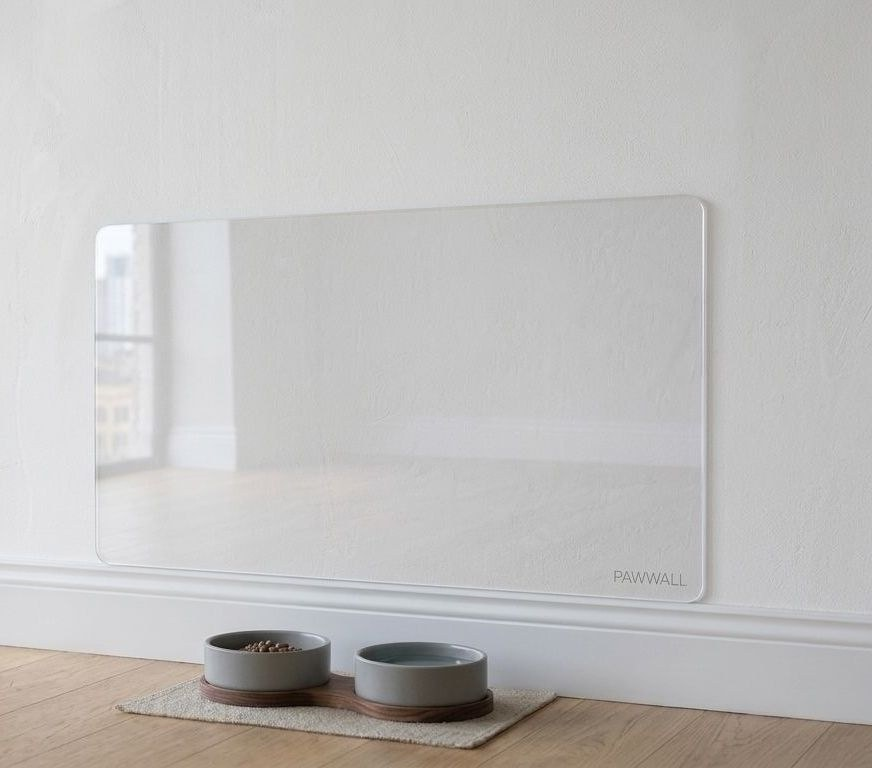
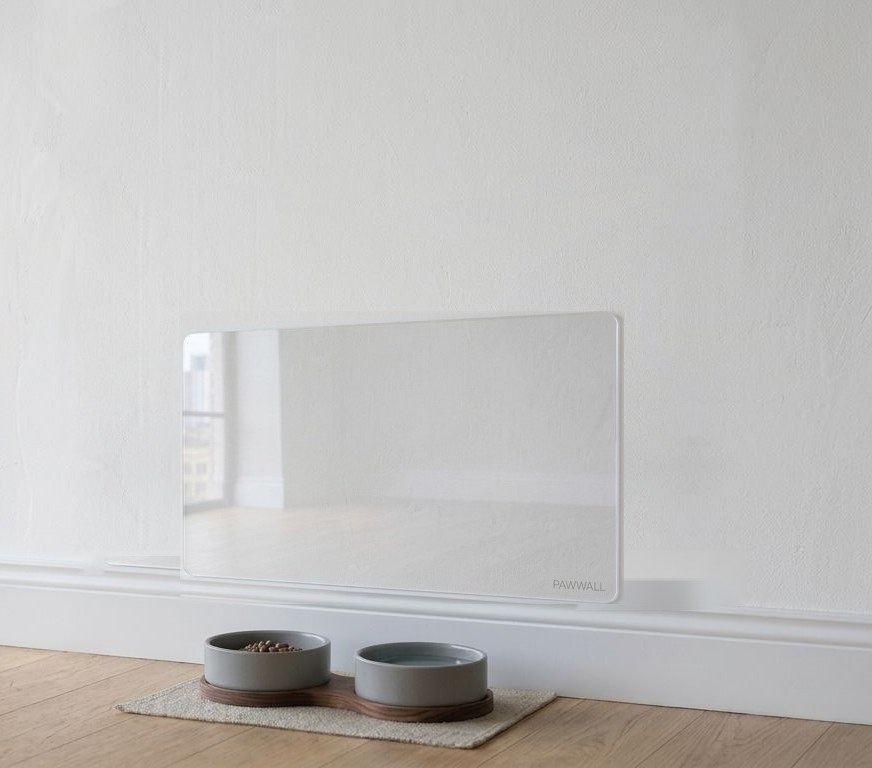
PawWall: CatWall con la foto original como talla L y talla M reducida
Claude-Session: https://claude.ai/code/session_013GfqyHzpRR2JBrbXYAACXR

diff --git a/pawwall/app.js b/pawwall/app.js
@@ -10,7 +10,7 @@ var LINEAS={DogWall:"perros",CatWall:"gatos"};
 /* acabados disponibles en cada línea: CatWall solo en Transparente Básico */
 var ACAB={DogWall:["tr","an","br"],CatWall:["tr"]};
 /* fotos del configurador por línea, acabado y talla: [x, y, ancho, alto del panel en %, ancho y alto de la foto] */
-var FOTO={"dog-tr-M":[39,36.5,36,38.06,1200,896],"dog-an-M":[39,36.54,36,38.1,1200,895],"dog-br-M":[39,36.5,36,38.06,1200,896],"dog-tr-L":[36.67,21.32,50.42,53.24,1200,896],"dog-an-L":[36.67,21.34,50.42,53.3,1200,895],"dog-br-L":[36.67,21.32,50.42,53.24,1200,896],"cat-tr-M":[10.44,25.26,71.33,53.39,872,768],"cat-tr-L":[5.03,6.32,88.34,73.28,962,768]};
+var FOTO={"dog-tr-M":[39,36.5,36,38.06,1200,896],"dog-an-M":[39,36.54,36,38.1,1200,895],"dog-br-M":[39,36.5,36,38.06,1200,896],"dog-tr-L":[36.67,21.32,50.42,53.24,1200,896],"dog-an-L":[36.67,21.34,50.42,53.3,1200,895],"dog-br-L":[36.67,21.32,50.42,53.24,1200,896],"cat-tr-M":[20.64,40.49,50.92,38.15,872,768],"cat-tr-L":[10.44,25.26,71.33,53.39,872,768]};
 /* tienda de PawWall en Velority: productos, precios y pedidos (los gestiona Ángel desde su portal › Catálogo / Pedidos) */
 var TIENDA_CLAVE="799fe49875d3c656",API="https://ufwuvbjrgvphbggkfkuh.supabase.co/functions/v1/productos";
 var CAT={},AJUSTES=null,CAT_OK=false,alCargar=[];
@@ -42,7 +42,7 @@ function pintarCarro(){
   C.forEach(function(x){x.p=PR(x.col,x.g,x.t)+(x.nombre?GR(x.g):0)});
   var n=C.reduce(function(a,x){return a+x.q},0),t=C.reduce(function(a,x){return a+x.p*x.q},0);
   $("#n-carro").textContent=n;$("#t-carro").textContent=eur(t);
-  $("#lista").innerHTML=C.length?C.map(function(x,i){var g=GAMAS[x.g];return '<div class="linea"><img src="img/conf-'+(x.col=="CatWall"?"cat":"dog")+'-'+x.g+'-'+x.t+'.webp?t2" alt=""><div><b>'+esc(x.col+" "+g.n)+'</b><small>Talla '+x.t+' · '+TALLAS[x.t]+(x.nombre?'<br>Nombre grabado: «'+esc(x.nombre)+'»':'')+'</small><div class="qt"><button data-i="'+i+'" data-d="-1" aria-label="Quitar uno">−</button>'+x.q+'<button data-i="'+i+'" data-d="1" aria-label="Añadir uno">+</button><button class="q" data-i="'+i+'" data-d="x">Eliminar</button></div></div><div class="pr">'+eur(x.p*x.q)+'</div></div>'}).join(""):'<p class="vacio">Tu carrito está vacío.<br><a href="configurador.html">Configura tu PawWall</a></p>';
+  $("#lista").innerHTML=C.length?C.map(function(x,i){var g=GAMAS[x.g];return '<div class="linea"><img src="img/conf-'+(x.col=="CatWall"?"cat":"dog")+'-'+x.g+'-'+x.t+'.webp?t3" alt=""><div><b>'+esc(x.col+" "+g.n)+'</b><small>Talla '+x.t+' · '+TALLAS[x.t]+(x.nombre?'<br>Nombre grabado: «'+esc(x.nombre)+'»':'')+'</small><div class="qt"><button data-i="'+i+'" data-d="-1" aria-label="Quitar uno">−</button>'+x.q+'<button data-i="'+i+'" data-d="1" aria-label="Añadir uno">+</button><button class="q" data-i="'+i+'" data-d="x">Eliminar</button></div></div><div class="pr">'+eur(x.p*x.q)+'</div></div>'}).join(""):'<p class="vacio">Tu carrito está vacío.<br><a href="configurador.html">Configura tu PawWall</a></p>';
   $("#pagar").disabled=!C.length;$("#pagar").style.opacity=C.length?1:.5;
 }
 $("#lista").addEventListener("click",function(e){var b=e.target.closest("button[data-i]");if(!b)return;var i=+b.dataset.i;if(b.dataset.d=="x")C.splice(i,1);else{C[i].q+=+b.dataset.d;if(C[i].q<1)C.splice(i,1)}guardar();pintarCarro()});
@@ -118,7 +118,7 @@ if(form){
     document.querySelectorAll('#c-acab input').forEach(function(i){i.closest('label').hidden=ok.indexOf(i.value)<0});
     $("#c-solo").hidden=ok.length>1;
     form.col.value=S.col;form.g.value=S.g;form.t.value=S.t;
-    var g=GAMAS[S.g],img=$("#c-img"),k=(S.col=="CatWall"?"cat":"dog")+"-"+S.g+"-"+S.t,f=FOTO[k],src="img/conf-"+k+".webp?t2";
+    var g=GAMAS[S.g],img=$("#c-img"),k=(S.col=="CatWall"?"cat":"dog")+"-"+S.g+"-"+S.t,f=FOTO[k],src="img/conf-"+k+".webp?t3";
     if(img.getAttribute("src")!=src){img.style.opacity=.2;img.onload=function(){img.style.opacity=1;ajustarGrab()};img.src=src}
     img.parentNode.style.aspectRatio=f[4]+"/"+f[5];
     img.alt="Panel "+S.col+" "+g.n+" talla "+S.t+" ("+TALLAS[S.t]+") colocado en la pared";

diff --git a/pawwall/configurador.html b/pawwall/configurador.html
@@ -128,6 +128,6 @@
 <div id="p-ok" hidden></div>
 </div></dialog>
 <div class="barra-m" id="barra-m" aria-hidden="true"><div><small>Total</small><b id="bm-total"></b></div><button class="btn osc" type="button" id="bm-add" tabindex="-1">Añadir al carrito</button></div>
-<script src="app.js?t2"></script>
+<script src="app.js?t3"></script>
 </body>
 </html>

diff --git a/pawwall/catwall.html b/pawwall/catwall.html
@@ -100,6 +100,6 @@
 </form>
 <div id="p-ok" hidden></div>
 </div></dialog>
-<script src="app.js?t2"></script>
+<script src="app.js?t3"></script>
 </body>
 </html>

diff --git a/pawwall/dogwall.html b/pawwall/dogwall.html
@@ -100,6 +100,6 @@
 </form>
 <div id="p-ok" hidden></div>
 </div></dialog>
-<script src="app.js?t2"></script>
+<script src="app.js?t3"></script>
 </body>
 </html>

diff --git a/pawwall/index.html b/pawwall/index.html
@@ -132,6 +132,6 @@
 </form>
 <div id="p-ok" hidden></div>
 </div></dialog>
-<script src="app.js?t2"></script>
+<script src="app.js?t3"></script>
 </body>
 </html>

diff --git a/pawwall/como-funciona.html b/pawwall/como-funciona.html
@@ -99,6 +99,6 @@
 </form>
 <div id="p-ok" hidden></div>
 </div></dialog>
-<script src="app.js?t2"></script>
+<script src="app.js?t3"></script>
 </body>
 </html>

diff --git a/pawwall/distribuidores.html b/pawwall/distribuidores.html
@@ -99,6 +99,6 @@
 </form>
 <div id="p-ok" hidden></div>
 </div></dialog>
-<script src="app.js?t2"></script>
+<script src="app.js?t3"></script>
 </body>
 </html>

diff --git a/pawwall/nosotros.html b/pawwall/nosotros.html
@@ -97,6 +97,6 @@
 </form>
 <div id="p-ok" hidden></div>
 </div></dialog>
-<script src="app.js?t2"></script>
+<script src="app.js?t3"></script>
 </body>
 </html>

diff --git a/pawwall/personalizacion.html b/pawwall/personalizacion.html
@@ -97,6 +97,6 @@
 </form>
 <div id="p-ok" hidden></div>
 </div></dialog>
-<script src="app.js?t2"></script>
+<script src="app.js?t3"></script>
 </body>
 </html>

diff --git a/pawwall/preguntas.html b/pawwall/preguntas.html
@@ -93,6 +93,6 @@
 </form>
 <div id="p-ok" hidden></div>
 </div></dialog>
-<script src="app.js?t2"></script>
+<script src="app.js?t3"></script>
 </body>
 </html>
